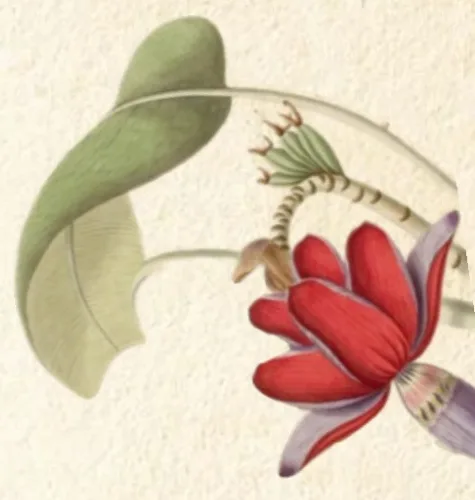
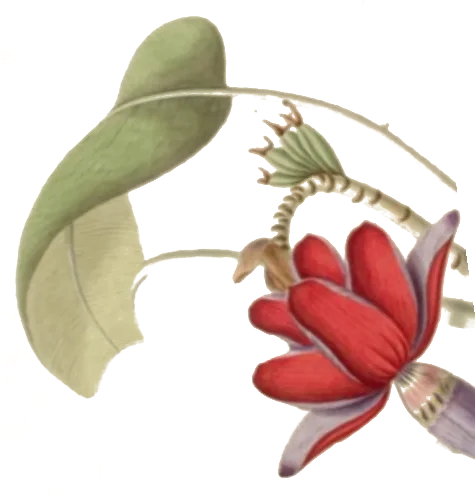
Woven canvas background on every plain section
- generate-assets builds a seamless tile from the canvas inside the
  family's Mughal arch artwork (high-pass to drop the faint paisley, then
  edge cross-fade so it repeats invisibly) and uses it behind the couple,
  timeline, family and RSVP sections; the couple section moves from
  emerald to canvas so the whole middle of the invite is one material
- the banana flower and palms/pots/elephant strip are colour-keyed out of
  their paper so they sit directly on the canvas
- no dividers between canvas sections; the digital grain overlay is gone

Claude-Session: https://claude.ai/code/session_01ADHonTWJ8jZCw9jaJ57dyS

diff --git a/src/style.css b/src/style.css
@@ -231,8 +231,14 @@ html.lenis body {
   --heading: var(--maroon);
   --label: var(--gold-deep);
   --line: var(--gold-2);
-  background: var(--ivory);
   color: var(--text);
+}
+
+/* the woven canvas from the Mughal arch artwork, on every plain section */
+.theme-ivory,
+.theme-blush,
+.theme-paper {
+  background: #ebeae5 url('/images/art/canvas.webp') 0 0 / calc(var(--colw) * 590 / 1125) auto repeat;
 }
 
 .theme-blush {
@@ -241,7 +247,6 @@ html.lenis body {
   --heading: var(--maroon);
   --label: var(--gold-deep);
   --line: var(--gold-2);
-  background: var(--blush);
   color: var(--text);
 }
 
@@ -251,15 +256,7 @@ html.lenis body {
   --heading: var(--maroon);
   --label: var(--gold-deep);
   --line: var(--gold-2);
-  background: #faf5e4 center / cover;
   color: var(--text);
-}
-
-/* Artwork backgrounds load only when their section is near (main.js adds
-   .is-near after the gate opens), so they never compete with the hero. */
-.theme-paper.is-near,
-html:not(.js) .theme-paper {
-  background-image: url('/images/art/paper.webp');
 }
 
 .theme-maroon,
@@ -283,8 +280,7 @@ html:not(.js) .theme-paper {
 }
 
 /* card-stock grain on the light sections (static, ~4%) */
-.theme-ivory::before,
-.theme-blush::before {
+.theme-none::before {
   content: '';
   position: absolute;
   inset: 0;
@@ -1297,13 +1293,13 @@ html:not(.js) .mughal {
 
 .photo-arch__line {
   fill: none;
-  stroke: var(--gold-light);
+  stroke: var(--gold);
   stroke-width: 1.5;
   vector-effect: non-scaling-stroke;
 }
 
 .photo-arch__line--outer {
-  stroke: var(--gold);
+  stroke: var(--gold-2);
   stroke-width: 1;
 }
 
@@ -1312,11 +1308,12 @@ html:not(.js) .mughal {
 }
 
 .photo-arch__finial {
-  color: var(--gold-light);
+  color: var(--gold-2);
 }
 
 .photo-arch__names {
   margin-top: var(--space-6);
+  color: var(--gold-deep);
   font-family: var(--f-script);
   font-size: clamp(42px, 11.5vw, 52px);
   line-height: 1.2;
@@ -1398,14 +1395,14 @@ html:not(.js) .mughal {
   height: 8px;
   margin: -4px 0 0 -4px;
   border-radius: 50%;
-  border: 1px solid var(--gold-light);
+  border: 1px solid var(--gold-2);
   transition:
     transform 0.4s var(--ease-out),
     background-color 0.4s;
 }
 
 .carousel__dot[aria-current='true']::before {
-  background: var(--gold-light);
+  background: var(--gold-2);
   transform: scale(1.25);
 }
 
@@ -1853,8 +1850,6 @@ html:not(.js) .mughal {
   right: -30px;
   width: 132px;
   pointer-events: none;
-  -webkit-mask-image: radial-gradient(ellipse at 62% 50%, #000 52%, transparent 72%);
-  mask-image: radial-gradient(ellipse at 62% 50%, #000 52%, transparent 72%);
 }
 
 .family__garden {
@@ -1862,8 +1857,6 @@ html:not(.js) .mughal {
   width: calc(100% + var(--pad) * 2);
   max-width: none;
   margin: calc(var(--space-6) * -1) calc(var(--pad) * -1) 0;
-  -webkit-mask-image: linear-gradient(180deg, transparent 0%, #000 18%);
-  mask-image: linear-gradient(180deg, transparent 0%, #000 18%);
   pointer-events: none;
 }
 

diff --git a/src/render.js b/src/render.js
@@ -88,10 +88,10 @@ const windowLine = archPath({ W: WINDOW.W, topH: WINDOW.top, bottom: WINDOW.H, c
 /* ---------- section dividers ---------- */
 // colour at the top of each themed section (what a divider is filled with)
 const TOP = {
-  ivory: '#FBF5EE',
+  ivory: '#EBEAE5',
   emerald: '#0F3D2E',
-  blush: '#F3D9DC',
-  paper: '#FAF5E4',
+  blush: '#EBEAE5',
+  paper: '#EBEAE5',
   maroon: '#6F1025',
   velvet: '#54111A',
 };
@@ -232,9 +232,9 @@ function meetCouple(c) {
     .map((_, i) => `<button type="button" class="carousel__dot" aria-label="Show photo ${i + 1}"${i === 0 ? ' aria-current="true"' : ''}></button>`)
     .join('');
   return {
-    theme: 'emerald',
+    theme: 'ivory',
     html: `
-  <section class="section theme-emerald section--couple" id="couple" aria-labelledby="couple-title">
+  <section class="section theme-ivory section--couple" id="couple" aria-labelledby="couple-title">
     ${sectionHead(m.eyebrow, m.title, '', 'couple-title')}
     <figure class="photo-arch">
       <div class="photo-arch__box">
@@ -248,7 +248,7 @@ function meetCouple(c) {
           <use href="#o-finial" x="${PHOTO.W / 2 - 11}" y="-30" width="22" height="28" class="photo-arch__finial"/>
         </svg>
       </div>
-      <figcaption class="photo-arch__names foil reveal reveal--script" data-text="${esc(m.names)}">${esc(m.names)}</figcaption>
+      <figcaption class="photo-arch__names reveal reveal--script">${esc(m.names)}</figcaption>
     </figure>
     <div class="carousel reveal" data-carousel>
       <ul class="carousel__track" role="list" aria-label="More photos of the couple">${slides}</ul>
@@ -553,8 +553,11 @@ export function renderBody(c) {
   let html = '';
   sections.forEach((s, i) => {
     const prev = sections[i - 1];
-    // the hero photo fades straight into the Mughal arch, so no edge there
-    if (prev && TOP[s.theme] && prev.theme !== s.theme) html += edgeBetween(prev.theme, s.theme);
+    // canvas sections flow into each other with no divider; the hero fades into
+    // the Mughal arch, whose balustrade ends it naturally
+    const light = (t) => ['ivory', 'blush', 'paper'].includes(t);
+    const skip = !prev || !TOP[s.theme] || prev.theme === s.theme || prev.theme === 'mughal' || (light(prev.theme) && light(s.theme));
+    if (!skip) html += edgeBetween(prev.theme, s.theme);
     html += s.html;
   });
 

diff --git a/README.md b/README.md
@@ -53,7 +53,7 @@ npm run generate:assets
 
 ### The family's artwork
 
-Your own artwork lives in **`assets/art/`** and is used as-is: the debossed lotus on the opening gate, the Mughal arch with the peacock (the invitation, 9-sliced so the pillars stretch to fit the text), the paper garden (family section, cut into the paper, banana flower and garden strip), the lantern arch (countdown) and the lotus vine on velvet (closing). `npm run generate:assets` copies them into `public/images/art/`, re-encoding only files over 300 KB.
+Your own artwork lives in **`assets/art/`** and is used as-is: the debossed lotus on the opening gate, the Mughal arch with the peacock (the invitation, 9-sliced so the pillars stretch to fit the text), the paper garden (its banana flower and palms-and-pots strip are cut out of the paper for the family section), the woven canvas from inside the Mughal arch (tiled seamlessly as the background of every plain section), the lantern arch (countdown) and the lotus vine on velvet (closing). `npm run generate:assets` copies them into `public/images/art/`, re-encoding only files over 300 KB.
 
 ### Visual QA screenshots
 
